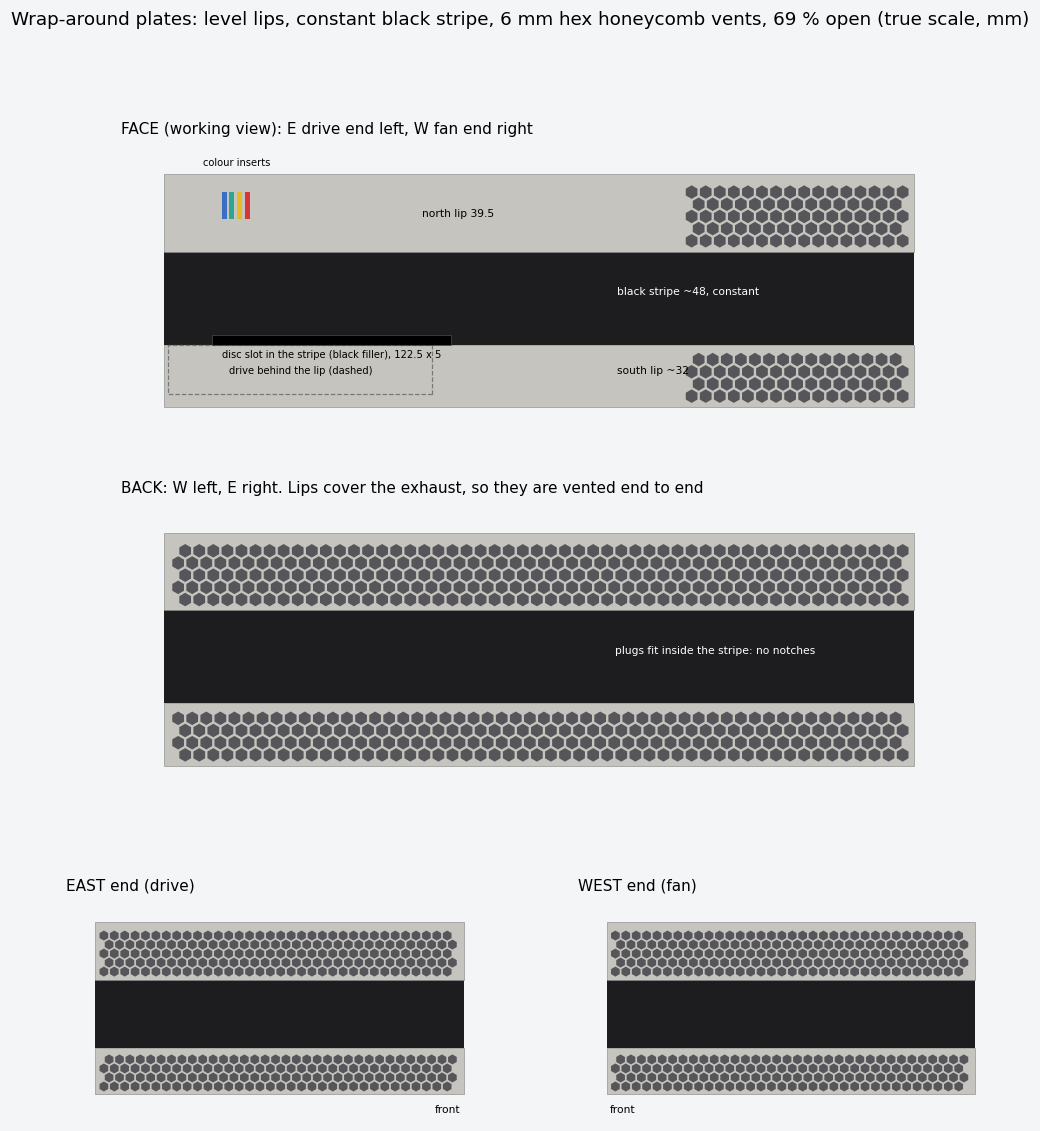
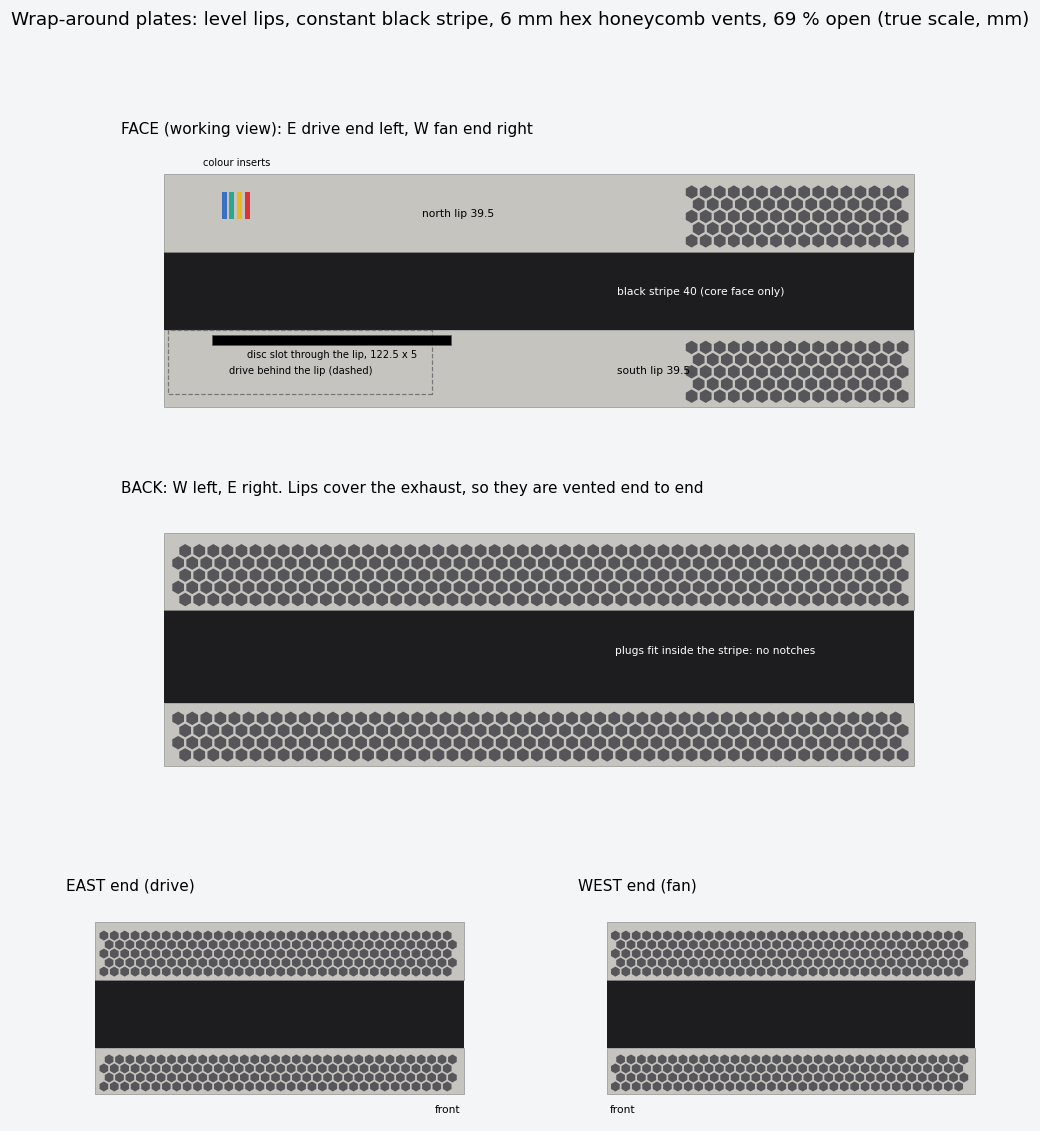
Bring handoff and 2D mockup in line with the build
HANDOFF.md now opens with the 2026-11-10 state (clip strips built, fit tests,
open items) and marks the 2026-11-02 sections as history. wrap_views.png
redrawn: 40 mm face stripe, disc slot through the south lip.

Changed region(s): [[0.1538, 0.2476, 0.8923, 0.3404]]

diff --git a/docs/mockups/wrap_mockup.py b/docs/mockups/wrap_mockup.py
@@ -14,6 +14,7 @@ C = 2.2
 # stripe: north edge 20 above the core centre; south edge at the disc slot so plugs need no notches
 B_HI, B_LO = C + 20.0, -25.5            # -> ~48 mm stripe, north lip 39.5, south lip ~32
 BAND = B_HI - B_LO
+B_FACE = C - 20.0                        # face only: south lip runs to the core's narrowest face edge (40 mm stripe)
 L0, L1 = -2.0, 382.0                     # plate span along the length (core 0..380)
 D = 255.0
 
@@ -45,19 +46,19 @@ def face(ax):
     """you looking at the front: W (fan) left, E (drive) right. u = 380 - z"""
     frame(ax, "FACE (working view): E drive end left, W fan end right", 384)
     ax.invert_xaxis()                                                     # trust the scan-based model: drive end on the left
-    ax.add_patch(Rectangle((L0, B_LO), L1 - L0, BAND, fc=CORE))
-    lip(ax, L0, L1, B_HI, TOP); lip(ax, L0, L1, BOT, B_LO)               # both lips level, end to end
+    ax.add_patch(Rectangle((L0, B_FACE), L1 - L0, B_HI - B_FACE, fc=CORE))
+    lip(ax, L0, L1, B_HI, TOP); lip(ax, L0, L1, BOT, B_FACE)             # both lips level, end to end
     # drive (z 0..135) sits behind the south lip, like the stock plate; dashed = hidden
-    ax.add_patch(Rectangle((380 - 135, -50.8), 135, B_LO + 50.8, fill=False, ec="#777", lw=0.8, ls="--"))
+    ax.add_patch(Rectangle((380 - 135, -50.8), 135, B_FACE + 50.8, fill=False, ec="#777", lw=0.8, ls="--"))
     # disc slot from the stock disc plate scan: z' 22.5..145, straight disc path x' -25.5..-20.5
-    ax.add_patch(Rectangle((380 - 145, -25.5), 145 - 22.5, 5, fc="#000", ec="#555", lw=0.4))   # inside the stripe, black filler around it
-    honeycomb(ax, L0, 120, B_HI, TOP); honeycomb(ax, L0, 120, BOT, B_LO)
+    ax.add_patch(Rectangle((380 - 145, -25.5), 145 - 22.5, 5, fc="#000", ec="#555", lw=0.4))   # through the south lip
+    honeycomb(ax, L0, 120, B_HI, TOP); honeycomb(ax, L0, 120, BOT, B_FACE)
     for i, col in enumerate(ACCENT):                                      # 4 inserts, 2.5 x 14 each
         ax.add_patch(Rectangle((338 + i * 4, C + BAND / 2 + 39.5 / 2 - 7), 2.5, 14, fc=col, lw=0))
     ax.text(312, -40, "drive behind the lip (dashed)", ha="center", fontsize=6.5)
-    ax.text(296, -32, "disc slot in the stripe (black filler), 122.5 x 5", ha="center", fontsize=6.5)
-    ax.text(250, 40, "north lip 39.5", fontsize=7); ax.text(150, 0, "black stripe ~48, constant", color="w", fontsize=7)
-    ax.text(150, -40, "south lip ~32", fontsize=7)
+    ax.text(296, -32, "disc slot through the lip, 122.5 x 5", ha="center", fontsize=6.5)
+    ax.text(250, 40, "north lip 39.5", fontsize=7); ax.text(150, 0, "black stripe 40 (core face only)", color="w", fontsize=7)
+    ax.text(150, -40, "south lip 39.5", fontsize=7)
     ax.text(345, 66, "colour inserts", fontsize=6.5, ha="center")
 
 

diff --git a/HANDOFF.md b/HANDOFF.md
@@ -1,17 +1,20 @@
-# Handoff: where the last session stopped (2026-11-02)
+# Handoff: where the last session stopped (2026-11-10)
 
-Read `CLAUDE.md` first, then this. Delete this file once the redesign below is settled and its decisions are in `CLAUDE.md`.
+Read `CLAUDE.md` first, then `CHANGELOG.md`, then this. Sections below "State before that" are history: the
+wrap-around design settled their questions (ends, level edges, disc access). Keep them for the reasoning only.
 
-## Latest (2026-11-10): brainstorming the clip mounting
-Process: `superpowers:brainstorming`, one question at a time; nothing gets built until Mike approves the written design.
-- **Done and built:** notchless stripe (x −25.5…22.2) and a black disc-slot filler, see `CLAUDE.md` Drive + Wrap rows.
+## Latest (2026-11-10): clip strips built, fit tests ready
+- **Built:** the south face lip covers the core to x −17.8 (40 mm face stripe, slot through the lip, hidden guide, square
+  corners). It replaces the black filler. Slide-in clip strips (proposal below, approved by Mike) are in `cad/wrap.py`,
+  and `cad/check_clip_strips.py` passes for all 9 strips.
+- **Ready to print first:** `deliverables/fit_tests/` (two coupons + strip-in-offcut), order in `TODO.md`.
 - **Decided, not built:** sleeve (plates overhang both ends by the slide distance), see `CLAUDE.md` Removal / sleeve row. Needs Job 1C.
-- **Waiting on Mike:** his review of the clip-strip proposal below, using the exploded sketch
-  `docs/mockups/explode/` (PNGs; `explode_spike.py` rebuilds it, throwaway). Question put to him: what's wrong or missing?
-- **Next after that:** write the design doc (`docs/superpowers/specs/2026-11-10-mounting-sleeve-design.md`): sleeve, channels,
-  latches, rebuilt hooks, re-check of the tile split and seam. A reviewer reads it before Mike.
+- **Open from the proposal:** hooks rebuilt as parametric solids (item 4), fewer longer strips, the latch's flex arm,
+  a chamfer under the strip's dovetail shoulder (it needs supports now). One end stop sits ~2 mm from the z 164 seam (target ≥3).
+  The floor grille still skips holes by the old shelf bboxes (`SHELVES`), not the rails.
+- **Next:** stepped seam, sleeve, port cut-outs, then the printable set.
 
-### Clip strips: proposal shown to Mike
+### Clip strips: proposal shown to Mike (approved 2026-11-10; items 1–3 and 6 built)
 1. Dovetail channel on the plate's inner floor (part of the tile).
 2. Solid end stop on the side that takes the pull when the plate slides off, so removal load goes into plastic, not the latch.
 3. Thumb latch at the open end: a flex tab snaps over a ledge; press it and slide the strip out, no tools.
@@ -58,7 +61,7 @@ Still mid-design on the plate edges, west/east ends and disc access. **Nothing i
 These `CLAUDE.md` decisions change if this goes ahead: "Edges" (slanted reveal, core-following skirts) and "Drive" (notch).
 
 ## Rejected but still in the code
-The semi-open walls are still in `cad/slab.py` (`END_FLAT`, `END_DISC`, `end_wall_cut`, the wall zone in `plate()`), with `analysis/end_edges.py`, `cad/check_end_walls.py` and `cad/renders/ends_*.png`. Mike rejected the concept. Remove them when the new design is built. The model builds as it stands, so nothing is broken in the meantime.
+The semi-open walls are still in `cad/slab.py` (`END_FLAT`, `END_DISC`, `end_wall_cut`, the wall zone in `plate()`), which `wrap.py` imports for its constants. Their scripts and renders moved to `archive/` (2026-11-10).
 
 ## How to resume
 1. The process in use is the `superpowers:brainstorming` skill. Mike accepted its browser mockups. The questions continue one at a time, and a written description needs his approval before any build.
@@ -66,7 +69,7 @@ The semi-open walls are still in `cad/slab.py` (`END_FLAT`, `END_DISC`, `end_wal
 3. Use cadgen as `cadgen +0.8.4`, the installed version.
 
 ## Side items
-- Job 1B: the 2026-11-09 research makes 114 the working spacing; only a fan-end confirmation is left. Rear ports (X-ray, Job 1D): notches were drafted and then dropped (2026-11-10). The stripe's disc-side edge moved to −25.5 instead, so plugs clear it and the disc slot sits inside the stripe in a black filler; one HDMI reading checks the clearance. Job 1C is on hold. **Next topic: clip mounting** (slide-in strips: how they hold the console's original slots and how they mount in the plate).
+- Job 1B: the 2026-11-09 research makes 114 the working spacing; only a fan-end confirmation is left. Rear ports (X-ray, Job 1D): notches were drafted and then dropped (2026-11-10). The stripe's disc-side edge moved to −25.5 instead, so plugs clear it; one HDMI reading checks the clearance. (The face side changed again the same day, see Latest.) Job 1C is on hold.
 - That model's creator and licence are still unconfirmed, because Cloudflare blocked curl and Mike saved the files rather than the page.
 
 ## Video reference: devynPC "BoxPlates" (reviewed 2026-11-02)
@@ -116,7 +119,7 @@ Mike: the back edges must not obstruct the exhaust, so use bigger openings or a 
 **Update:** Mike chose the honeycomb for every vent, fan grilles included (2026-11-02). The 2D mockup `wrap_views.png` is final at this stage, and the next step is a 3D draft.
 
 ## 3D draft (2026-11-02)
-`cad/wrap.py` → `wrap_horizontal` (386 × 261 × 131 mm, 29 parts, ~50 s cold build). Its parts: floor trays with a honeycomb grille, separate face, back and end lip strips (honeycomb vents, the disc slot in the south face lip, colour inserts on the north face lip), TPU feet, the core and drive proxies, and the old shelves relabelled `clip_placeholder_*`. Not drawn: stepped seam, clip channels, port cut-outs, disc guide tunnel.
+`cad/wrap.py` → `wrap_horizontal` (386 × 261 × 131 mm, 29 parts, ~50 s cold build). Its parts: floor trays with a honeycomb grille, separate face, back and end lip strips (honeycomb vents, the disc slot in the south face lip, colour inserts on the north face lip), TPU feet, the core and drive proxies, and the old shelves relabelled `clip_placeholder_*` (since 2026-11-10: real clip strips and a disc guide). Not drawn: stepped seam, port cut-outs.
 **Open question for Mike, orientation:** the model comes from the real-plate scans, and the disc slot confirms +Y is the front. Seen from the front with the console lying disc-side down, it puts the **drive end on the left**. Mike described the drive at the bottom **right**, and `wrap_views.png` follows his description. **Resolved (Mike): trust the model.** From the front, the drive end (E) is on the left and the fan end (W) on the right. `wrap_views.png` is flipped to match. `Superpowers Brainstorming.html` is deleted (deprecated). In the viewer, 0.4 mm engravings show only in **solid** display mode (edges); shaded hides them.
 
 ## North top treatment (2026-11-02, built in `wrap.py`)

diff --git a/CHANGELOG.md b/CHANGELOG.md
@@ -13,6 +13,7 @@ nothing here has been printed or test-fitted yet. See `README.md` for the projec
 - **Fit tests to print first** (`deliverables/fit_tests/`, Bambu Studio–ready `.3mf`): two hook coupons, plus one clip
   strip with a matching plate offcut, built from the live model by `cad/fit_tests.py`. Print order in `TODO.md`.
 - This changelog.
+- Docs brought in line with the build: `HANDOFF.md` rewritten for the current state, 2D face mockup (`wrap_views.png`) redrawn with the 40 mm face stripe and the slot through the lip.
 ### Changed
 - The south face lip now covers the core out to its narrowest face edge. The face shows one continuous 40 mm black
   band with no filler seam, the disc slot is cut through the lip, and a hidden guide is printed as one with the lip.
